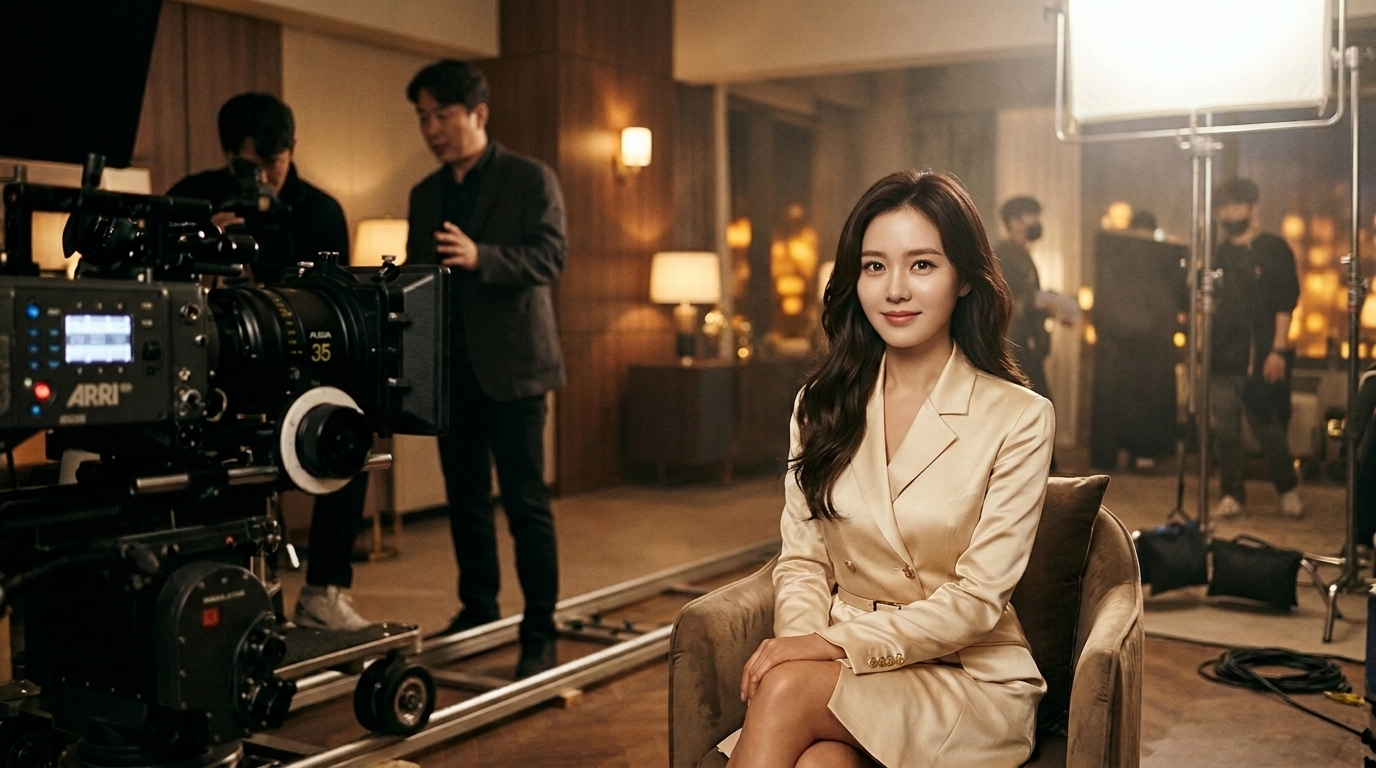
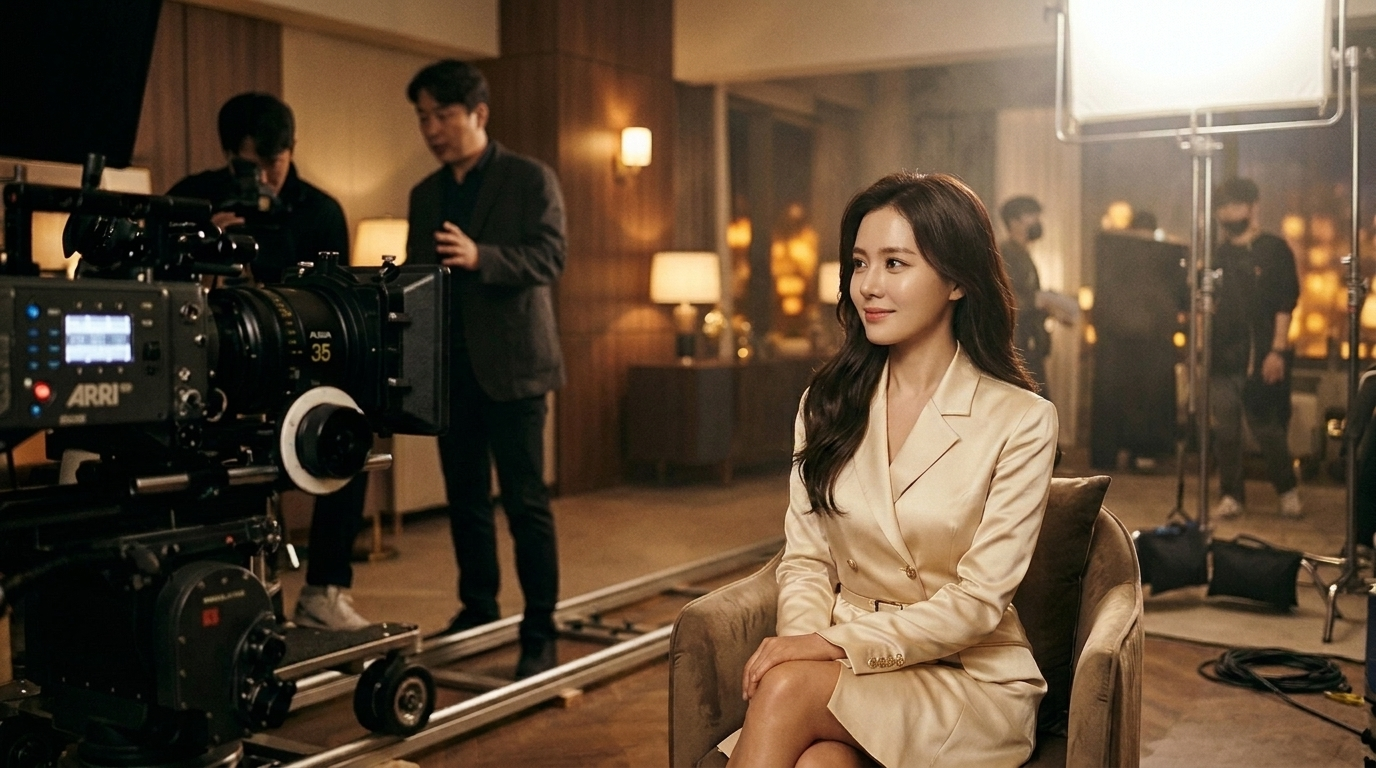
Update Gongjindan Card 03 model gaze to look directly at the cinema camera lens

diff --git a/homepage/wordpress-gongjindan.html b/homepage/wordpress-gongjindan.html
@@ -6148,7 +6148,7 @@
         <article class="project-details-item is-image is-clean-plate" data-fullscreen>
           <span class="tiny-card-num-badge">03</span>
           <div class="plate-media-inner">
-            <img class="lusion-clean-media" src="https://raw.githubusercontent.com/ajwei0508-cpu/bareun-homepage/main/homepage/gongjindan_minimal_card3_circulation_a.jpg?v=celeb3" alt="왜 연예인들이 공진단을 복용할까? 비결 '피부 주름 노화 회복'" draggable="false">
+            <img class="lusion-clean-media" src="https://raw.githubusercontent.com/ajwei0508-cpu/bareun-homepage/main/homepage/gongjindan_minimal_card3_circulation_a.jpg?v=celeb4" alt="왜 연예인들이 공진단을 복용할까? 비결 '피부 주름 노화 회복'" draggable="false">
             <div class="clean-plate-scrim"></div>
             <div class="clean-plate-caption">
               <div class="clean-plate-text">

diff --git a/homepage/build-story-detail-pages.js b/homepage/build-story-detail-pages.js
@@ -1324,7 +1324,7 @@ const PAGES = [
       {
         type: 'clean-image',
         fullscreen: true,
-        imgSrc: 'gongjindan_minimal_card3_circulation_a.jpg?v=celeb3',
+        imgSrc: 'gongjindan_minimal_card3_circulation_a.jpg?v=celeb4',
         title: "왜 연예인들이 공진단을 복용할까? 비결 '피부 주름 노화 회복'",
         sub: '[성분 논문 근거] 밤샘 촬영과 조명 노출이 잦은 연예인들이 공진단을 즐겨 복용하는 이유는 피부 콜라겐 손상을 막아 피부 탄력과 안색을 밝게 지켜주기 때문입니다.',
         caption: '[성분 논문 근거] 밤샘 촬영과 조명 노출이 잦은 연예인들이 공진단을 즐겨 복용하는 이유는 피부 콜라겐 손상을 막아 피부 탄력과 안색을 밝게 지켜주기 때문입니다.'

diff --git a/homepage/gongjindan.html b/homepage/gongjindan.html
@@ -6131,7 +6131,7 @@
         <article class="project-details-item is-image is-clean-plate" data-fullscreen>
           <span class="tiny-card-num-badge">03</span>
           <div class="plate-media-inner">
-            <img class="lusion-clean-media" src="gongjindan_minimal_card3_circulation_a.jpg?v=celeb3" alt="왜 연예인들이 공진단을 복용할까? 비결 '피부 주름 노화 회복'" draggable="false">
+            <img class="lusion-clean-media" src="gongjindan_minimal_card3_circulation_a.jpg?v=celeb4" alt="왜 연예인들이 공진단을 복용할까? 비결 '피부 주름 노화 회복'" draggable="false">
             <div class="clean-plate-scrim"></div>
             <div class="clean-plate-caption">
               <div class="clean-plate-text">
